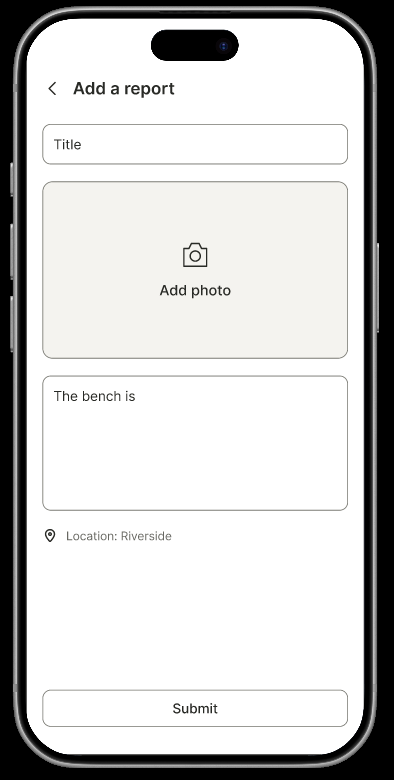
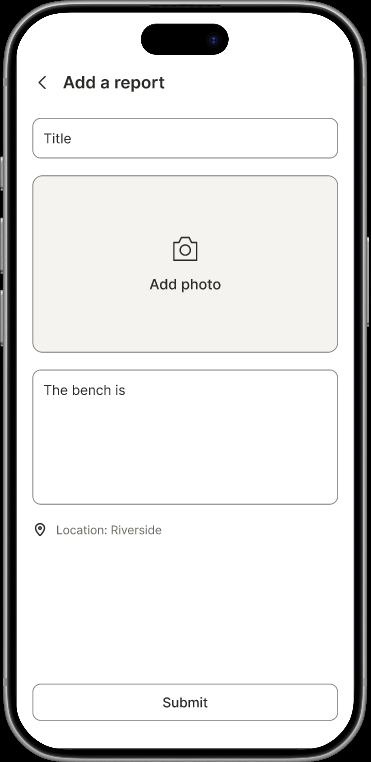
crop two screens in Assignment 4

Changed region(s): [[0.0, 0.0, 1.0, 1.0], [0.4151, 0.3018, 0.593, 0.3924]]

diff --git a/A4/readme.md b/A4/readme.md
@@ -1,10 +1,18 @@
-# Project Name: City Guy
+# City Guy
 
-## We selected the prototype for smart phones for sevaral reasons
+City Guy helps people discover useful urban places and improve the city through trusted local knowledge.
 
-## 1.People use smart phones more frequently than smart watches
+## Selected Paper Prototype
 
-## 2.City Guy is an application based on maps, it is different to interact with a map in smart watches because of the limited screen size
+We selected the **smartphone paper prototype** from Assignment 2 as the basis for our Assignment 4 interactive prototype.
 
-## [link](https://www.figma.com/design/MBXyXvKJmew7WOHfCjDvAP/City-Guy-Prototype-for-Smart-Phones?node-id=0-1&t=71XLuN0U7DGpOS9z-1)
+We chose it for the following reasons:
 
+- **Easier map interaction:** Compared with a smartwatch, a smartphone provides more space to explore a map, inspect locations, and select a place
+- **Support for detailed reports:** A smartphone is better suited to entering a description, attaching a photo, and checking a report's location.
+
+**Feature transfers:** No features are being transferred from the smartwatch paper prototype.
+
+## Interactive Prototype
+
+[Open the City Guy smartphone prototype in Figma](https://www.figma.com/proto/MBXyXvKJmew7WOHfCjDvAP/City-Guy-Prototype-for-Smart-Phones?node-id=0-1&t=71XLuN0U7DGpOS9z-1)
